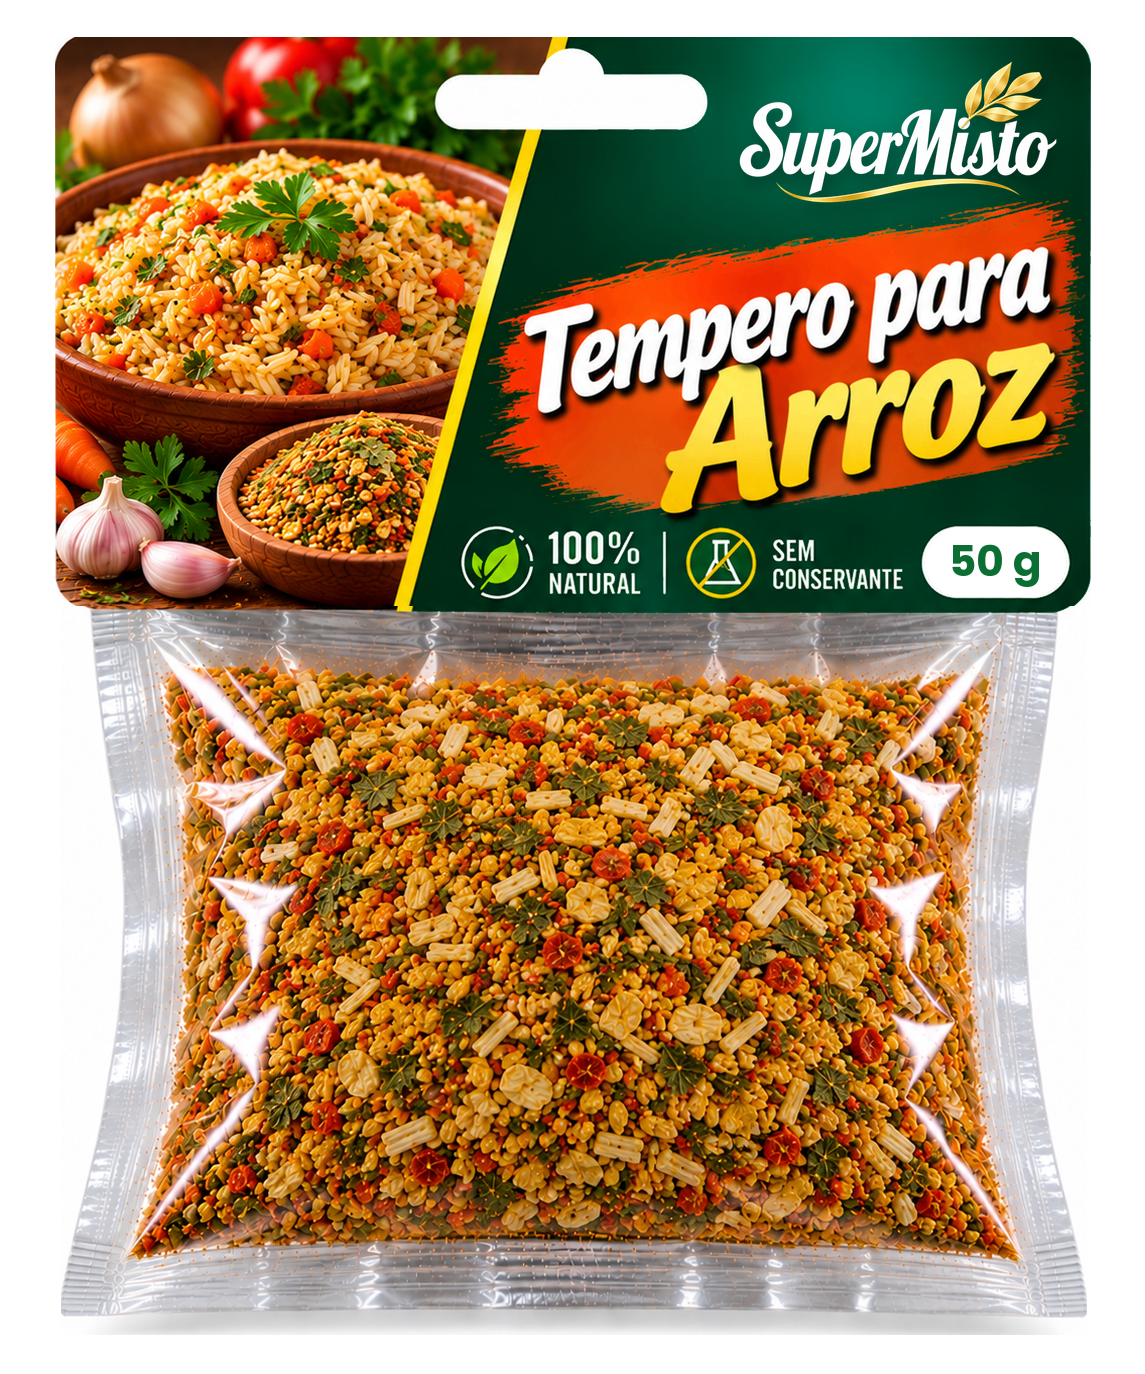
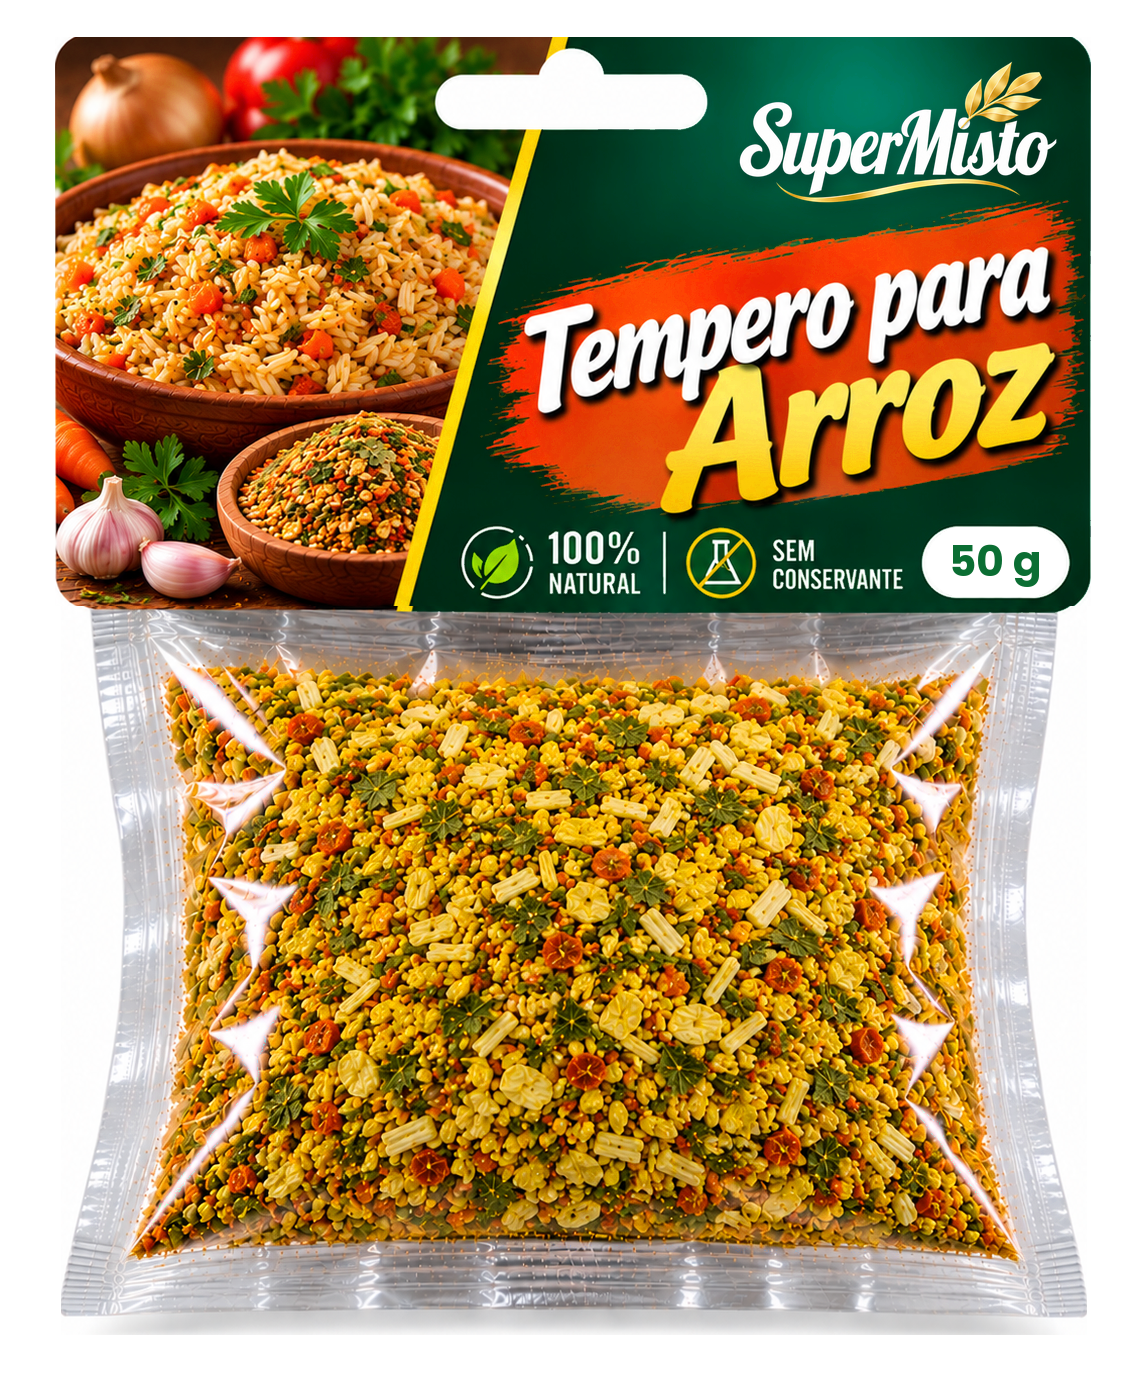
Supermisto: cor própria do tempero em cada saquinho (frango, feijão, arroz)
Claude-Session: https://claude.ai/code/session_01UfbvQyVUMZpEq6zNbbPKYT

Changed region(s): [[0.1528, 0.4891, 0.8865, 0.917], [0.1223, 0.8865, 0.1528, 0.917]]

diff --git a/sites/supermisto/site.js b/sites/supermisto/site.js
@@ -31,7 +31,7 @@ const slug = (n) => n.toLowerCase().normalize('NFD').replace(/[\u0300-\u036f]/g,
 const PESO_FOTO = { '50 g': '-50g', '100 g': '-100g', '1 kg': '-1kg' };
 function midia(p, peso) {
   const s = slug(p.nome);
-  return FOTOS.has(s) ? `<img class="foto-prod" src="img/produtos/${s}${PESO_FOTO[peso] || ''}.webp?v=36" alt="${escapar(p.nome)} Supermisto ${peso || ''}" loading="lazy">` : embalagem(p, peso);
+  return FOTOS.has(s) ? `<img class="foto-prod" src="img/produtos/${s}${PESO_FOTO[peso] || ''}.webp?v=37" alt="${escapar(p.nome)} Supermisto ${peso || ''}" loading="lazy">` : embalagem(p, peso);
 }
 
 const $ = (s, el = document) => el.querySelector(s);
@@ -43,7 +43,7 @@ const WHATS_SVG = '<svg viewBox="0 0 32 32" width="30" height="30" fill="#fff" a
 /* ---------- cartões de produto ---------- */
 function cartao(p) {
   if (!FOTOS.has(slug(p.nome))) return `<article class="prod prod-embreve aparece" aria-label="${escapar(p.nome)}: em breve">
-    <div class="prod-img"><img class="breve-logo" src="img/logo-supermisto.png?v=36" alt="" loading="lazy"><span class="breve-selo">Em breve</span></div>
+    <div class="prod-img"><img class="breve-logo" src="img/logo-supermisto.png?v=37" alt="" loading="lazy"><span class="breve-selo">Em breve</span></div>
     <div class="prod-corpo">
       <small class="prod-linha">${linhaDe(p.linha).nome}</small>
       <h3>${escapar(p.nome)}</h3>
@@ -132,11 +132,11 @@ function inicio() {
   const pegar = (nome) => PRODUTOS.find((p) => p.nome === nome);
   // produtos com foto real entram como recorte (sem fundo); os outros com a embalagem desenhada
   const vit = (n) => FOTOS.has(slug(n)) ? `<img src="img/produtos/${slug(n)}-recorte.png" alt="${n} Supermisto">` : embalagem(pegar(n), pegar(n).tam[1] || pegar(n).tam[0]);
-  $('#vitrine').innerHTML = '<img class="vit-kit" src="img/kit-10-temperos.webp?v=36" alt="Kit 10 temperos Supermisto" width="900" height="900">';
+  $('#vitrine').innerHTML = '<img class="vit-kit" src="img/kit-10-temperos.webp?v=37" alt="Kit 10 temperos Supermisto" width="900" height="900">';
   $('#num-prod').textContent = PRODUTOS.length + '+';
   $('#linhas-grid').innerHTML = LINHAS.map((l) => {
     const qtd = PRODUTOS.filter((p) => p.linha === l.id).length;
-    const fundo = FOTOS_LINHA.includes(l.id) ? `background-image:url(img/linhas/${l.id}.webp?v=36)` : `background:radial-gradient(circle at 50% 40%,#7B1F95,#2C0739)`;
+    const fundo = FOTOS_LINHA.includes(l.id) ? `background-image:url(img/linhas/${l.id}.webp?v=37)` : `background:radial-gradient(circle at 50% 40%,#7B1F95,#2C0739)`;
     return `<a class="linha aparece" href="linha.html?id=${l.id}"><span class="linha-foto" style="${fundo}">${FOTOS_LINHA.includes(l.id) ? '' : `<i>${l.emoji}</i>`}</span><b>${l.nome}</b><em>${qtd} produtos</em></a>`;
   }).join('');
   // só produtos com foto real (os outros entram quando a foto chegar)
@@ -184,8 +184,8 @@ function paginaLinha() {
   const titulo = `<span class="sobre-tit amarelo">Nossas linhas</span><h1>${l.nome}</h1><p>${l.desc}</p>
     <span class="ln-conta">${lista.length} produtos${prontos < lista.length ? ` · ${lista.length - prontos} em breve` : ''}</span>`;
   $('#linha').innerHTML = CAPAS_LINHA.includes(l.id)
-    ? `<div class="ln-capa-larga"><img src="img/linhas/${l.id}-capa.webp?v=36" alt="${l.nome} Supermisto" width="1920" height="720"></div><div class="ln-topo ln-topo-so"><div class="caixa">${titulo}</div></div>`
-    : `<div class="ln-topo"><div class="caixa ln-topo-in"><div>${titulo}</div>${FOTOS_LINHA.includes(l.id) ? `<img class="ln-foto" src="img/linhas/${l.id}.webp?v=36" alt="${l.nome} Supermisto" width="800" height="600">` : `<div class="ln-foto ln-foto-vazia"><i>${l.emoji}</i></div>`}</div></div>`;
+    ? `<div class="ln-capa-larga"><img src="img/linhas/${l.id}-capa.webp?v=37" alt="${l.nome} Supermisto" width="1920" height="720"></div><div class="ln-topo ln-topo-so"><div class="caixa">${titulo}</div></div>`
+    : `<div class="ln-topo"><div class="caixa ln-topo-in"><div>${titulo}</div>${FOTOS_LINHA.includes(l.id) ? `<img class="ln-foto" src="img/linhas/${l.id}.webp?v=37" alt="${l.nome} Supermisto" width="800" height="600">` : `<div class="ln-foto ln-foto-vazia"><i>${l.emoji}</i></div>`}</div></div>`;
   $('#linhas-nav').innerHTML = LINHAS.map((x) => `<a href="linha.html?id=${x.id}"${x.id === l.id ? ' class="ativo" aria-current="page"' : ''}>${x.nome}</a>`).join('');
   $('#linha-prods').innerHTML = lista.map(([p, i]) => cartao(p, i)).join('');
 }

diff --git a/sites/supermisto/index.html b/sites/supermisto/index.html
@@ -12,14 +12,14 @@
 <link rel="icon" href="img/icone-192.png">
 <link rel="preconnect" href="https://fonts.googleapis.com">
 <link href="https://fonts.googleapis.com/css2?family=Inter:wght@400;500;600;700&family=Poppins:ital,wght@0,600;0,700;0,800;1,800&display=swap" rel="stylesheet">
-<link rel="stylesheet" href="estilo.css?v=36">
+<link rel="stylesheet" href="estilo.css?v=37">
 <script type="application/ld+json">{"@context":"https://schema.org","@type":"Organization","name":"Supermisto Temperos","legalName":"SUPER MISTO TEMPEROS LTDA","taxID":"13.580.397/0001-80","url":"https://www.supermistotemperos.com.br/","logo":"https://www.supermistotemperos.com.br/img/logo-supermisto.png","email":"contato@supermistotemperos.com.br","telephone":"+55-24-99872-1557","address":{"@type":"PostalAddress","streetAddress":"Estrada de Xerém, 484","addressLocality":"Duque de Caxias","addressRegion":"RJ","postalCode":"25241-390","addressCountry":"BR"}}</script>
 </head>
 <body>
 
 <header class="topo" id="topo">
   <div class="caixa topo-in">
-    <a href="index.html" class="marca" aria-label="Supermisto Temperos, início"><img src="img/logo-supermisto.png?v=36" alt="Supermisto Temperos" width="1029" height="507"></a>
+    <a href="index.html" class="marca" aria-label="Supermisto Temperos, início"><img src="img/logo-supermisto.png?v=37" alt="Supermisto Temperos" width="1029" height="507"></a>
     <nav class="menu" id="menu">
       <a href="catalogo.html">Produtos</a>
       <a href="receitas.html">Receitas</a>
@@ -34,7 +34,7 @@
 
 <main>
 <a class="banner-topo" href="catalogo.html" aria-label="Ver os temperos Supermisto">
-  <img src="img/banner-larga.webp?v=36" srcset="img/banner-larga-960.webp?v=36 960w, img/banner-larga-1280.webp?v=36 1280w, img/banner-larga.webp?v=36 1920w" sizes="100vw" width="1920" height="720" alt="Supermisto: sabor e qualidade em cada receita. Molhos de pimenta, shoyu e alho, temperos e doces Supermisto." fetchpriority="high">
+  <img src="img/banner-larga.webp?v=37" srcset="img/banner-larga-960.webp?v=37 960w, img/banner-larga-1280.webp?v=37 1280w, img/banner-larga.webp?v=37 1920w" sizes="100vw" width="1920" height="720" alt="Supermisto: sabor e qualidade em cada receita. Molhos de pimenta, shoyu e alho, temperos e doces Supermisto." fetchpriority="high">
 </a>
 <section class="hero" id="inicio">
   
@@ -158,8 +158,8 @@
 <footer class="rodape" id="rodape"></footer>
 <a class="whats-flutua" data-whats="Olá! Vim pelo site da Supermisto." aria-label="WhatsApp"></a>
 
-<script src="produtos.js?v=36"></script>
-<script src="receitas.js?v=36"></script>
-<script src="site.js?v=36"></script>
+<script src="produtos.js?v=37"></script>
+<script src="receitas.js?v=37"></script>
+<script src="site.js?v=37"></script>
 </body>
 </html>

diff --git a/sites/supermisto/catalogo.html b/sites/supermisto/catalogo.html
@@ -9,12 +9,12 @@
 <link rel="icon" href="img/icone-192.png">
 <link rel="preconnect" href="https://fonts.googleapis.com">
 <link href="https://fonts.googleapis.com/css2?family=Inter:wght@400;500;600;700&family=Poppins:ital,wght@0,600;0,700;0,800;1,800&display=swap" rel="stylesheet">
-<link rel="stylesheet" href="estilo.css?v=36">
+<link rel="stylesheet" href="estilo.css?v=37">
 </head>
 <body>
 <header class="topo" id="topo">
   <div class="caixa topo-in">
-    <a href="index.html" class="marca" aria-label="Supermisto Temperos, início"><img src="img/logo-supermisto.png?v=36" alt="Supermisto Temperos" width="1029" height="507"></a>
+    <a href="index.html" class="marca" aria-label="Supermisto Temperos, início"><img src="img/logo-supermisto.png?v=37" alt="Supermisto Temperos" width="1029" height="507"></a>
     <nav class="menu" id="menu">
       <a href="index.html">Início</a>
       <a href="catalogo.html" class="atual">Produtos</a>
@@ -52,8 +52,8 @@
 <footer class="rodape" id="rodape"></footer>
 <a class="whats-flutua" data-whats="Olá! Vim pelo catálogo da Supermisto." aria-label="WhatsApp"></a>
 
-<script src="produtos.js?v=36"></script>
-<script src="receitas.js?v=36"></script>
-<script src="site.js?v=36"></script>
+<script src="produtos.js?v=37"></script>
+<script src="receitas.js?v=37"></script>
+<script src="site.js?v=37"></script>
 </body>
 </html>

diff --git a/sites/supermisto/linha.html b/sites/supermisto/linha.html
@@ -9,12 +9,12 @@
 <link rel="icon" href="img/icone-192.png">
 <link rel="preconnect" href="https://fonts.googleapis.com">
 <link href="https://fonts.googleapis.com/css2?family=Inter:wght@400;500;600;700&family=Poppins:ital,wght@0,600;0,700;0,800;1,800&display=swap" rel="stylesheet">
-<link rel="stylesheet" href="estilo.css?v=36">
+<link rel="stylesheet" href="estilo.css?v=37">
 </head>
 <body>
 <header class="topo" id="topo">
   <div class="caixa topo-in">
-    <a href="index.html" class="marca" aria-label="Supermisto Temperos, início"><img src="img/logo-supermisto.png?v=36" alt="Supermisto Temperos" width="1029" height="507"></a>
+    <a href="index.html" class="marca" aria-label="Supermisto Temperos, início"><img src="img/logo-supermisto.png?v=37" alt="Supermisto Temperos" width="1029" height="507"></a>
     <nav class="menu" id="menu">
       <a href="index.html">Início</a>
       <a href="catalogo.html" class="atual">Produtos</a>
@@ -45,8 +45,8 @@
 <footer class="rodape" id="rodape"></footer>
 <a class="whats-flutua" data-whats="Olá! Vim pelo site da Supermisto." aria-label="WhatsApp"></a>
 
-<script src="produtos.js?v=36"></script>
-<script src="receitas.js?v=36"></script>
-<script src="site.js?v=36"></script>
+<script src="produtos.js?v=37"></script>
+<script src="receitas.js?v=37"></script>
+<script src="site.js?v=37"></script>
 </body>
 </html>

diff --git a/sites/supermisto/produto.html b/sites/supermisto/produto.html
@@ -9,12 +9,12 @@
 <link rel="icon" href="img/icone-192.png">
 <link rel="preconnect" href="https://fonts.googleapis.com">
 <link href="https://fonts.googleapis.com/css2?family=Inter:wght@400;500;600;700&family=Poppins:ital,wght@0,600;0,700;0,800;1,800&display=swap" rel="stylesheet">
-<link rel="stylesheet" href="estilo.css?v=36">
+<link rel="stylesheet" href="estilo.css?v=37">
 </head>
 <body>
 <header class="topo" id="topo">
   <div class="caixa topo-in">
-    <a href="index.html" class="marca" aria-label="Supermisto Temperos, início"><img src="img/logo-supermisto.png?v=36" alt="Supermisto Temperos" width="1029" height="507"></a>
+    <a href="index.html" class="marca" aria-label="Supermisto Temperos, início"><img src="img/logo-supermisto.png?v=37" alt="Supermisto Temperos" width="1029" height="507"></a>
     <nav class="menu" id="menu">
       <a href="index.html">Início</a>
       <a href="catalogo.html" class="atual">Produtos</a>
@@ -35,8 +35,8 @@
 <footer class="rodape" id="rodape"></footer>
 <a class="whats-flutua" data-whats="Olá! Vim pelo site da Supermisto." aria-label="WhatsApp"></a>
 
-<script src="produtos.js?v=36"></script>
-<script src="receitas.js?v=36"></script>
-<script src="site.js?v=36"></script>
+<script src="produtos.js?v=37"></script>
+<script src="receitas.js?v=37"></script>
+<script src="site.js?v=37"></script>
 </body>
 </html>

diff --git a/sites/supermisto/privacidade.html b/sites/supermisto/privacidade.html
@@ -12,12 +12,12 @@
 <link rel="icon" href="img/icone-192.png">
 <link rel="preconnect" href="https://fonts.googleapis.com">
 <link href="https://fonts.googleapis.com/css2?family=Inter:wght@400;500;600;700&family=Poppins:ital,wght@0,600;0,700;0,800;1,800&display=swap" rel="stylesheet">
-<link rel="stylesheet" href="estilo.css?v=36">
+<link rel="stylesheet" href="estilo.css?v=37">
 </head>
 <body>
 <header class="topo" id="topo">
   <div class="caixa topo-in">
-    <a href="index.html" class="marca" aria-label="Supermisto Temperos, início"><img src="img/logo-supermisto.png?v=36" alt="Supermisto Temperos" width="1029" height="507"></a>
+    <a href="index.html" class="marca" aria-label="Supermisto Temperos, início"><img src="img/logo-supermisto.png?v=37" alt="Supermisto Temperos" width="1029" height="507"></a>
     <nav class="menu" id="menu">
       <a href="catalogo.html">Produtos</a>
       <a href="receitas.html">Receitas</a>
@@ -43,8 +43,8 @@
 <footer class="rodape" id="rodape"></footer>
 <a class="whats-flutua" data-whats="Olá! Vim pelo site da Supermisto." aria-label="WhatsApp"></a>
 
-<script src="produtos.js?v=36"></script>
-<script src="receitas.js?v=36"></script>
-<script src="site.js?v=36"></script>
+<script src="produtos.js?v=37"></script>
+<script src="receitas.js?v=37"></script>
+<script src="site.js?v=37"></script>
 </body>
 </html>

diff --git a/sites/supermisto/receita.html b/sites/supermisto/receita.html
@@ -12,12 +12,12 @@
 <link rel="icon" href="img/icone-192.png">
 <link rel="preconnect" href="https://fonts.googleapis.com">
 <link href="https://fonts.googleapis.com/css2?family=Inter:wght@400;500;600;700&family=Poppins:ital,wght@0,600;0,700;0,800;1,800&display=swap" rel="stylesheet">
-<link rel="stylesheet" href="estilo.css?v=36">
+<link rel="stylesheet" href="estilo.css?v=37">
 </head>
 <body>
 <header class="topo" id="topo">
   <div class="caixa topo-in">
-    <a href="index.html" class="marca" aria-label="Supermisto Temperos, início"><img src="img/logo-supermisto.png?v=36" alt="Supermisto Temperos" width="1029" height="507"></a>
+    <a href="index.html" class="marca" aria-label="Supermisto Temperos, início"><img src="img/logo-supermisto.png?v=37" alt="Supermisto Temperos" width="1029" height="507"></a>
     <nav class="menu" id="menu">
       <a href="catalogo.html">Produtos</a>
       <a href="receitas.html">Receitas</a>
@@ -37,8 +37,8 @@
 <footer class="rodape" id="rodape"></footer>
 <a class="whats-flutua" data-whats="Olá! Vim pelo site da Supermisto." aria-label="WhatsApp"></a>
 
-<script src="produtos.js?v=36"></script>
-<script src="receitas.js?v=36"></script>
-<script src="site.js?v=36"></script>
+<script src="produtos.js?v=37"></script>
+<script src="receitas.js?v=37"></script>
+<script src="site.js?v=37"></script>
 </body>
 </html>

diff --git a/sites/supermisto/receitas.html b/sites/supermisto/receitas.html
@@ -12,12 +12,12 @@
 <link rel="icon" href="img/icone-192.png">
 <link rel="preconnect" href="https://fonts.googleapis.com">
 <link href="https://fonts.googleapis.com/css2?family=Inter:wght@400;500;600;700&family=Poppins:ital,wght@0,600;0,700;0,800;1,800&display=swap" rel="stylesheet">
-<link rel="stylesheet" href="estilo.css?v=36">
+<link rel="stylesheet" href="estilo.css?v=37">
 </head>
 <body>
 <header class="topo" id="topo">
   <div class="caixa topo-in">
-    <a href="index.html" class="marca" aria-label="Supermisto Temperos, início"><img src="img/logo-supermisto.png?v=36" alt="Supermisto Temperos" width="1029" height="507"></a>
+    <a href="index.html" class="marca" aria-label="Supermisto Temperos, início"><img src="img/logo-supermisto.png?v=37" alt="Supermisto Temperos" width="1029" height="507"></a>
     <nav class="menu" id="menu">
       <a href="catalogo.html">Produtos</a>
       <a href="receitas.html">Receitas</a>
@@ -37,8 +37,8 @@
 <footer class="rodape" id="rodape"></footer>
 <a class="whats-flutua" data-whats="Olá! Vim pelo site da Supermisto." aria-label="WhatsApp"></a>
 
-<script src="produtos.js?v=36"></script>
-<script src="receitas.js?v=36"></script>
-<script src="site.js?v=36"></script>
+<script src="produtos.js?v=37"></script>
+<script src="receitas.js?v=37"></script>
+<script src="site.js?v=37"></script>
 </body>
 </html>

diff --git a/sites/supermisto/revenda.html b/sites/supermisto/revenda.html
@@ -9,12 +9,12 @@
 <link rel="icon" href="img/icone-192.png">
 <link rel="preconnect" href="https://fonts.googleapis.com">
 <link href="https://fonts.googleapis.com/css2?family=Inter:wght@400;500;600;700&family=Poppins:ital,wght@0,600;0,700;0,800;1,800&display=swap" rel="stylesheet">
-<link rel="stylesheet" href="estilo.css?v=36">
+<link rel="stylesheet" href="estilo.css?v=37">
 </head>
 <body>
 <header class="topo" id="topo">
   <div class="caixa topo-in">
-    <a href="index.html" class="marca" aria-label="Supermisto Temperos, início"><img src="img/logo-supermisto.png?v=36" alt="Supermisto Temperos" width="1029" height="507"></a>
+    <a href="index.html" class="marca" aria-label="Supermisto Temperos, início"><img src="img/logo-supermisto.png?v=37" alt="Supermisto Temperos" width="1029" height="507"></a>
     <nav class="menu" id="menu">
       <a href="index.html">Início</a>
       <a href="catalogo.html">Produtos</a>
@@ -96,8 +96,8 @@
 <footer class="rodape" id="rodape"></footer>
 <a class="whats-flutua" data-whats="Olá! Vim pelo site da Supermisto." aria-label="WhatsApp"></a>
 
-<script src="produtos.js?v=36"></script>
-<script src="receitas.js?v=36"></script>
-<script src="site.js?v=36"></script>
+<script src="produtos.js?v=37"></script>
+<script src="receitas.js?v=37"></script>
+<script src="site.js?v=37"></script>
 </body>
 </html>

diff --git a/sites/supermisto/404.html b/sites/supermisto/404.html
@@ -18,7 +18,7 @@
 
 <header class="topo" id="topo">
   <div class="caixa topo-in">
-    <a href="index.html" class="marca" aria-label="Supermisto Temperos, início"><img src="img/logo-supermisto.png?v=36" alt="Supermisto Temperos" width="1029" height="507"></a>
+    <a href="index.html" class="marca" aria-label="Supermisto Temperos, início"><img src="img/logo-supermisto.png?v=37" alt="Supermisto Temperos" width="1029" height="507"></a>
     <nav class="menu" id="menu">
       <a href="catalogo.html">Produtos</a>
       <a href="receitas.html">Receitas</a>
@@ -33,7 +33,7 @@
 
 <main>
 <a class="banner-topo" href="catalogo.html" aria-label="Ver os temperos Supermisto">
-  <img src="img/banner-topo.webp?v=36" srcset="img/banner-topo-960.webp?v=36 960w, img/banner-topo.webp?v=36 1920w" sizes="100vw" width="1920" height="1072" alt="Supermisto: tempero de verdade, sabor de casa. Colorau, orégano, cúrcuma e pimenta-do-reino com pratos prontos." fetchpriority="high">
+  <img src="img/banner-topo.webp?v=37" srcset="img/banner-topo-960.webp?v=37 960w, img/banner-topo.webp?v=37 1920w" sizes="100vw" width="1920" height="1072" alt="Supermisto: tempero de verdade, sabor de casa. Colorau, orégano, cúrcuma e pimenta-do-reino com pratos prontos." fetchpriority="high">
 </a>
 <section class="hero" id="inicio">
   

diff --git a/entregas/super-misto/cor_recheio.py b/entregas/super-misto/cor_recheio.py
@@ -1,0 +1,36 @@
+"""Muda a cor do tempero dentro do saquinho (só o recheio, abaixo da solapa) para cada sabor ficar diferente.
+Uso: python3 cor_recheio.py <id> <giro de matiz em graus> <saturação x> <brilho x>
+Aplica em saquinhos/<id>.png e nas versões -30g/-50g/-100g (mesma posição)."""
+import sys
+from pathlib import Path
+import numpy as np
+from PIL import Image, ImageFilter
+from padroniza import partes
+
+AQUI = Path(__file__).parent
+
+
+def recolorir(arq, giro, sat, bri):
+    im = Image.open(arq).convert('RGB')
+    _, pac = partes(im)
+    hsv = np.asarray(im.convert('HSV')).astype(float)
+    h, s, v = hsv[..., 0], hsv[..., 1], hsv[..., 2]
+    m = np.zeros(h.shape)
+    x0, y0, x1, y1 = pac
+    m[y0 + 15:y1 - 15, x0 + 15:x1 - 15] = 1
+    m *= np.clip((s - 40) / 50, 0, 1)  # só o que tem cor (deixa o plástico e os brilhos brancos)
+    m = np.asarray(Image.fromarray((m * 255).astype('uint8')).filter(ImageFilter.GaussianBlur(6))) / 255
+    h2 = (h + giro * 256 / 360) % 256
+    s2 = np.clip(s * sat, 0, 255)
+    v2 = np.clip(v * bri, 0, 255)
+    novo = np.stack([h * (1 - m) + h2 * m, s * (1 - m) + s2 * m, v * (1 - m) + v2 * m], -1)
+    Image.fromarray(novo.round().astype('uint8'), 'HSV').convert('RGB').save(arq)
+
+
+if __name__ == '__main__':
+    pid, giro, sat, bri = sys.argv[1], float(sys.argv[2]), float(sys.argv[3]), float(sys.argv[4])
+    for suf in ('', '-30g', '-50g', '-100g'):
+        f = AQUI / 'saquinhos' / f'{pid}{suf}.png'
+        if f.exists():
+            recolorir(f, giro, sat, bri)
+    print('ok', pid)
